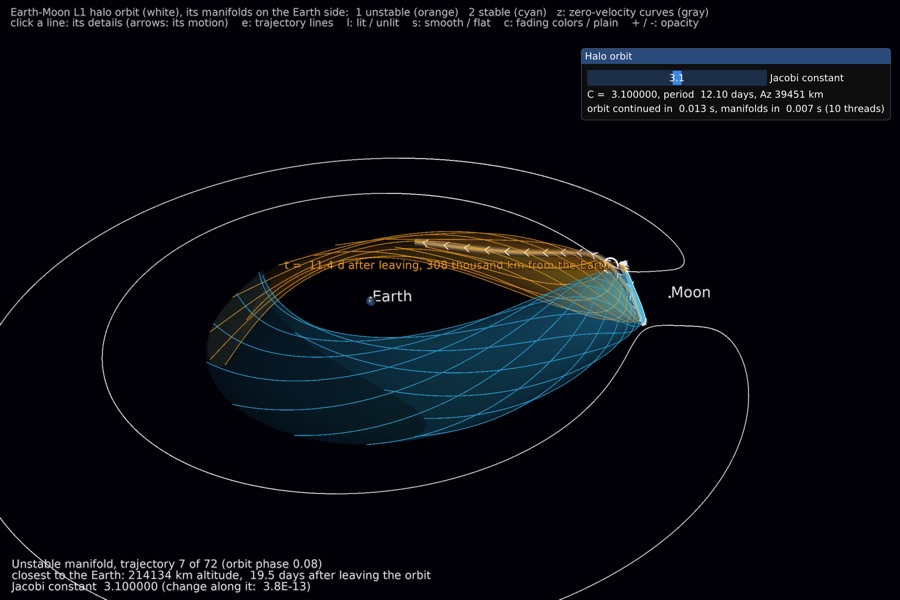
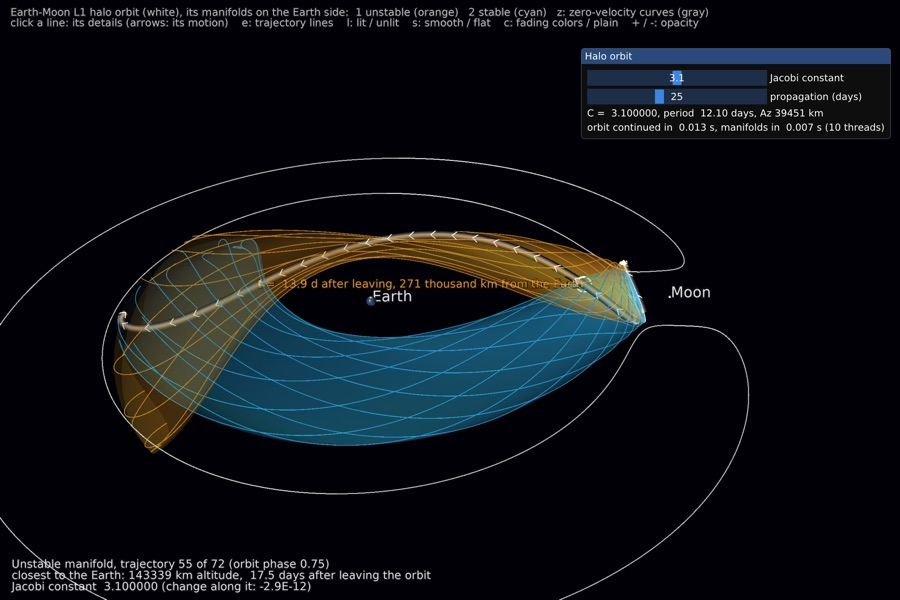
README: the halo demo in the demos' introduction; its screenshot
The demos' introduction notes that the halo demo uses vkframes' own
window and GUI panels (no GUI toolkit); its section says so, and its
screenshot shows both sliders.

Changed region(s): [[0.1244, 0.36, 0.7156, 0.75], [0.6533, 0.15, 0.9956, 0.24], [0.1556, 0.93, 0.3733, 0.99]]

diff --git a/README.md b/README.md
@@ -360,9 +360,11 @@ its arguments.
 
 Each demo in [demos/](demos/) is a fuller application with a GUI, and a
 separate fpm project that depends on vkframes (the library itself doesn't
-depend on Qt or Python). They run vkframes embedded in a host window: the
-GUI toolkit owns the window and forwards its events, and vkframes renders
-into it.
+depend on Qt, Python or OpenMP). Most run vkframes embedded in a host
+window: the GUI toolkit owns the window and forwards its events, and
+vkframes renders into it. The halo manifolds demo instead uses vkframes'
+own window and its built-in GUI panels (Dear ImGui), so it needs no GUI
+toolkit.
 
 #### Qt demo
 
@@ -479,10 +481,11 @@ pixi run -e qt cr3bp-demo
 
 #### Halo manifolds demo
 
-<img src="media/screenshots/halo_demo.jpg" alt="An Earth-Moon L1 halo orbit's stable and unstable manifold tubes, the zero-velocity curves, a picked trajectory and the Jacobi constant's panel" width="300" align="right">
+<img src="media/screenshots/halo_demo.jpg" alt="An Earth-Moon L1 halo orbit's stable and unstable manifold tubes, the zero-velocity curves, a picked trajectory and the panel of sliders" width="300" align="right">
 
 [demos/halo](demos/halo): an Earth-Moon L1 halo orbit (CR3BP, rotating
-frame) and its invariant manifolds on the Earth's side.
+frame) and its invariant manifolds on the Earth's side, in a vkframes
+window with a GUI panel (no Qt; OpenMP for the propagation).
 
 - The halo orbit by differential correction; its manifolds from the
   monodromy matrix's eigenvectors, carried around the orbit by the state
